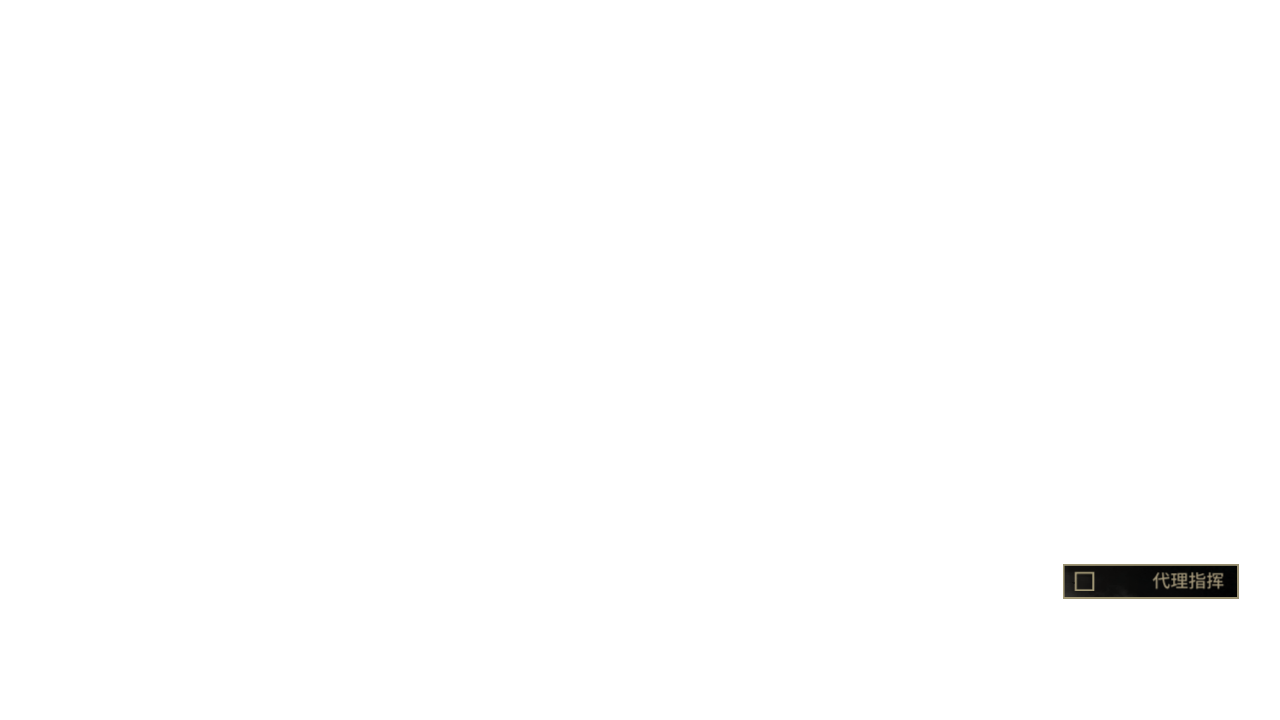
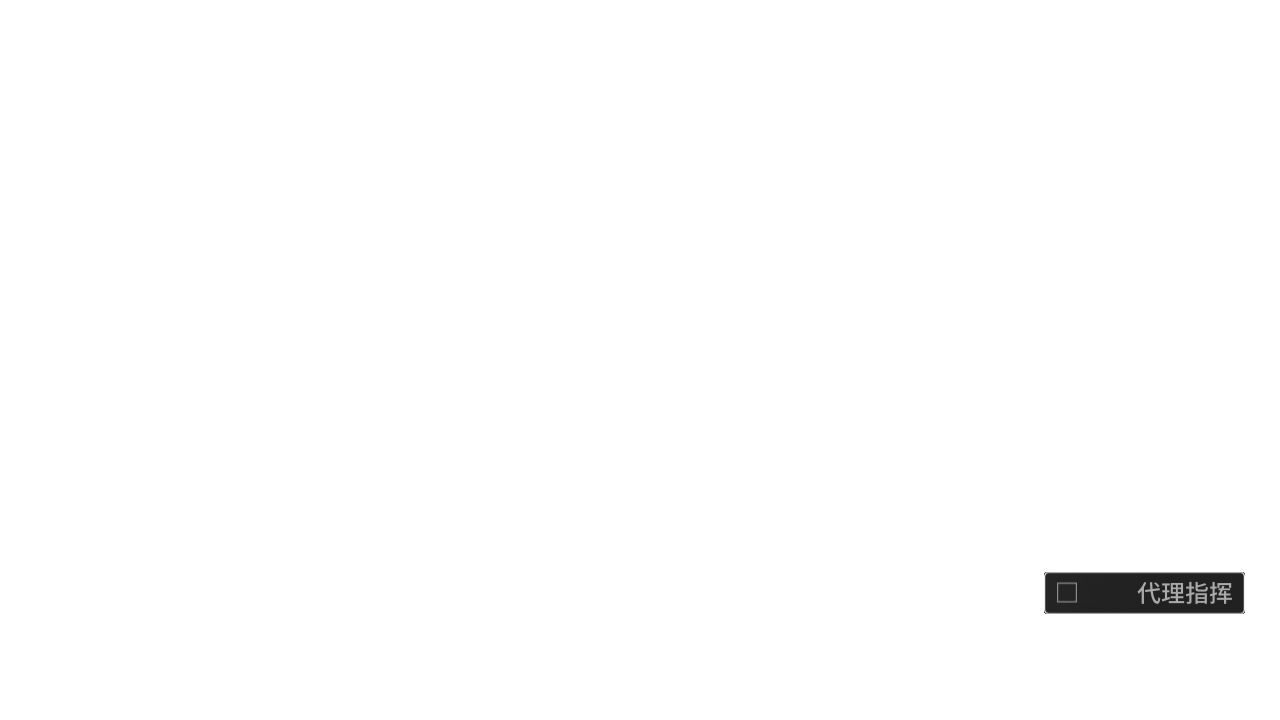
feat: 合并多个但功能相同的Tmpl

Changed region(s): [[0.8125, 0.7639, 1.0, 0.8556]]

diff --git a/src/main/kotlin/top/anagke/auto_ark/operate/ArkOperate.kt b/src/main/kotlin/top/anagke/auto_ark/operate/ArkOperate.kt
@@ -12,11 +12,7 @@ import top.anagke.auto_ark.operate.OperateOperations.剿灭作战
 import top.anagke.auto_ark.operate.OperateResult.EMPTY_SANITY
 import top.anagke.auto_ark.operate.OperateStrategy.*
 import top.anagke.auto_ark.operate.OperateTemplates.关卡信息界面_代理指挥关闭
-import top.anagke.auto_ark.operate.OperateTemplates.关卡信息界面_代理指挥关闭_0
-import top.anagke.auto_ark.operate.OperateTemplates.关卡信息界面_代理指挥关闭_1
 import top.anagke.auto_ark.operate.OperateTemplates.关卡信息界面_代理指挥开启
-import top.anagke.auto_ark.operate.OperateTemplates.关卡信息界面_代理指挥开启_0
-import top.anagke.auto_ark.operate.OperateTemplates.关卡信息界面_代理指挥开启_1
 import top.anagke.auto_ark.operate.OperateTemplates.剿灭_行动结束
 import top.anagke.auto_ark.operate.OperateTemplates.理智不足_可使用源石
 import top.anagke.auto_ark.operate.OperateTemplates.理智不足_可使用药剂
@@ -131,8 +127,6 @@ class ArkOperate(
                 Logger.info("进入关卡：$operation，完毕")
                 assert(
                     关卡信息界面_代理指挥开启, 关卡信息界面_代理指挥关闭,
-                    关卡信息界面_代理指挥开启_0, 关卡信息界面_代理指挥关闭_0,
-                    关卡信息界面_代理指挥开启_1, 关卡信息界面_代理指挥关闭_1
                 )
                 true
             }
@@ -147,10 +141,8 @@ class ArkOperate(
         Logger.info("代理指挥关卡：$operation，理智策略：${operateConfig.strategy}")
         assert(
             关卡信息界面_代理指挥开启, 关卡信息界面_代理指挥关闭,
-            关卡信息界面_代理指挥开启_0, 关卡信息界面_代理指挥关闭_0,
-            关卡信息界面_代理指挥开启_1, 关卡信息界面_代理指挥关闭_1
         )
-        if (matched(关卡信息界面_代理指挥关闭, 关卡信息界面_代理指挥关闭_0, 关卡信息界面_代理指挥关闭_1)) {
+        if (matched(关卡信息界面_代理指挥关闭)) {
             Logger.info("代理指挥关卡：$operation，代理指挥关闭，开启")
             tap(1067, 592) // 开启“代理指挥”
         }
@@ -167,7 +159,7 @@ class ArkOperate(
         if (matched(理智不足_可使用药剂) && strategy.canUsePotion() || matched(理智不足_可使用源石) && strategy.canUseOriginite()) {
             Logger.info("代理指挥关卡：$operation，理智不足，恢复")
             tap(1088, 577) // 恢复理智
-            await(关卡信息界面_代理指挥开启, 关卡信息界面_代理指挥开启_0, 关卡信息界面_代理指挥开启_1)
+            await(关卡信息界面_代理指挥开启)
             tap(1078, 661)
             await(编队界面)
         }
@@ -176,7 +168,7 @@ class ArkOperate(
         if (matched(理智不足_可使用药剂, 理智不足_可使用源石)) {
             Logger.info("代理指挥关卡：$operation，理智不足，退出")
             tap(783, 580)
-            await(关卡信息界面_代理指挥开启, 关卡信息界面_代理指挥开启_0, 关卡信息界面_代理指挥开启_1)
+            await(关卡信息界面_代理指挥开启)
             return EMPTY_SANITY
         }
 
@@ -188,7 +180,7 @@ class ArkOperate(
         }
         tap(640, 360).sleep()
         tap(640, 360).nap()
-        await(关卡信息界面_代理指挥开启, 关卡信息界面_代理指挥开启_0, 关卡信息界面_代理指挥开启_1)
+        await(关卡信息界面_代理指挥开启)
         Logger.info("代理指挥关卡：$operation，完毕")
         return OperateResult.SUCCESS
     }

diff --git a/src/main/kotlin/top/anagke/auto_ark/ArkUniversal.kt b/src/main/kotlin/top/anagke/auto_ark/ArkUniversal.kt
@@ -10,18 +10,43 @@ import kotlin.reflect.KProperty
 fun tmpl(diff: Double = 0.05) = TmplDelegate(diff)
 
 class TmplDelegate(private val diff: Double) {
+
     private var tmpl: Tmpl? = null
+
     operator fun getValue(thisRef: Any?, property: KProperty<*>): Tmpl {
         if (tmpl == null) {
-            val name = "${property.name}.png"
+            val name = property.name
             val kClass = thisRef?.let { it::class.java } ?: AutoArk::class.java
-            val tmplBytes = kClass
-                .getResource(name)!!
-                .readBytes()
-            tmpl = Tmpl(name, diff, Img.decode(tmplBytes)!!)
+            tmpl = findSingle(name, kClass) ?: findMultiple(name, kClass)
+                    ?: throw Exception("cannot find template with given name '$name'")
         }
         return tmpl!!
     }
+
+    private fun findSingle(name: String, kClass: Class<*>): Tmpl? {
+        return kClass
+            .getResource("${name}.png")
+            ?.readBytes()
+            ?.let { Tmpl(name, diff, listOf(Img.decode(it)!!)) }
+    }
+
+    private fun findMultiple(name: String, kClass: Class<*>): Tmpl? {
+        val imgs = mutableListOf<Img>()
+        var i = 0
+        while (true) {
+            val img = kClass
+                .getResource("${name}_${i++}.png")
+                ?.readBytes()
+                ?.let { Img.decode(it) }
+            if (img == null) {
+                break
+            } else {
+                imgs += img
+            }
+        }
+        return Tmpl("${name}.png", diff, imgs)
+    }
+
 }
 
 fun today(): DayOfWeek {

diff --git a/src/main/kotlin/top/anagke/auto_ark/operate/Operation.kt b/src/main/kotlin/top/anagke/auto_ark/operate/Operation.kt
@@ -5,11 +5,7 @@ import top.anagke.auto_android.device.notMatch
 import top.anagke.auto_android.util.minutes
 import top.anagke.auto_ark.jumpOut
 import top.anagke.auto_ark.operate.OperateTemplates.关卡信息界面_代理指挥关闭
-import top.anagke.auto_ark.operate.OperateTemplates.关卡信息界面_代理指挥关闭_0
-import top.anagke.auto_ark.operate.OperateTemplates.关卡信息界面_代理指挥关闭_1
 import top.anagke.auto_ark.operate.OperateTemplates.关卡信息界面_代理指挥开启
-import top.anagke.auto_ark.operate.OperateTemplates.关卡信息界面_代理指挥开启_0
-import top.anagke.auto_ark.operate.OperateTemplates.关卡信息界面_代理指挥开启_1
 import java.util.concurrent.CopyOnWriteArrayList
 
 class Operation(
@@ -42,12 +38,7 @@ enum class OperationType {
 
 fun Device.enter(operation: Operation): OperationState {
     with(operation) { enter() }
-    if (notMatch(
-            关卡信息界面_代理指挥开启, 关卡信息界面_代理指挥关闭,
-            关卡信息界面_代理指挥开启_0, 关卡信息界面_代理指挥关闭_0,
-            关卡信息界面_代理指挥开启_1, 关卡信息界面_代理指挥关闭_1
-        )
-    ) {
+    if (notMatch(关卡信息界面_代理指挥开启, 关卡信息界面_代理指挥关闭)) {
         jumpOut()
         return OperationState.NOT_OPEN
     }

diff --git a/src/main/kotlin/top/anagke/auto_ark/operate/Consts.kt b/src/main/kotlin/top/anagke/auto_ark/operate/Consts.kt
@@ -3,8 +3,8 @@
 package top.anagke.auto_ark.operate
 
 import top.anagke.auto_android.device.*
+import top.anagke.auto_android.img.Pos
 import top.anagke.auto_android.img.ocrWord
-import top.anagke.auto_android.util.Pos
 import top.anagke.auto_android.util.Rect
 import top.anagke.auto_android.util.Size
 import top.anagke.auto_android.util.minutes
@@ -52,11 +52,7 @@ object OperateTemplates {
     internal val 关卡信息界面_代理指挥开启 by tmpl(diff = 0.01)
 
     // 关卡准备页面，且代理指挥关闭
-    internal val 关卡信息界面_代理指挥关闭 by tmpl(diff = 0.02)
-    internal val 关卡信息界面_代理指挥开启_0 by tmpl(diff = 0.01)
-    internal val 关卡信息界面_代理指挥关闭_0 by tmpl(diff = 0.01)
-    internal val 关卡信息界面_代理指挥开启_1 by tmpl(diff = 0.01)
-    internal val 关卡信息界面_代理指挥关闭_1 by tmpl(diff = 0.01)
+    internal val 关卡信息界面_代理指挥关闭 by tmpl(diff = 0.01)
 
     // 等待“开始行动”
     internal val 编队界面 by tmpl(diff = 0.01)
@@ -86,7 +82,7 @@ object OperateOperations {
     @JvmStatic
     fun main(args: Array<String>) {
         App.defaultAutoArk().run {
-            device.enter(剿灭作战)
+            device.enter(MAIN_1_7)
         }
     }
 

diff --git a/src/main/kotlin/top/anagke/auto_ark/riic/RIIC.kt b/src/main/kotlin/top/anagke/auto_ark/riic/RIIC.kt
@@ -13,7 +13,7 @@ import top.anagke.auto_android.device.Device
 import top.anagke.auto_android.device.nap
 import top.anagke.auto_android.device.whileNotMatch
 import top.anagke.auto_android.img.OpenCV
-import top.anagke.auto_android.util.Pos
+import top.anagke.auto_android.img.Pos
 import top.anagke.auto_ark.riic.ArkRIIC.Companion.心情增序
 import top.anagke.auto_ark.riic.ArkRIIC.Companion.未进驻筛选
 import java.time.LocalTime

diff --git a/src/main/kotlin/top/anagke/auto_ark/riic/RIICConfig.kt b/src/main/kotlin/top/anagke/auto_ark/riic/RIICConfig.kt
@@ -3,7 +3,7 @@ package top.anagke.auto_ark.riic
 import com.charleskorn.kaml.Yaml
 import kotlinx.serialization.Serializable
 import kotlinx.serialization.encodeToString
-import top.anagke.auto_android.util.Pos
+import top.anagke.auto_android.img.Pos
 
 @Serializable
 data class RIICConfig(

diff --git a/src/main/kotlin/top/anagke/auto_ark/store/ArkStore.kt b/src/main/kotlin/top/anagke/auto_ark/store/ArkStore.kt
@@ -1,8 +1,8 @@
 package top.anagke.auto_ark.store
 
 import top.anagke.auto_android.device.*
+import top.anagke.auto_android.img.Pos
 import top.anagke.auto_android.img.Tmpl
-import top.anagke.auto_android.util.Pos
 import top.anagke.auto_ark.*
 
 class ArkStore(

diff --git a/src/main/kotlin/top/anagke/auto_ark/riic/ArkRIIC.kt b/src/main/kotlin/top/anagke/auto_ark/riic/ArkRIIC.kt
@@ -1,7 +1,7 @@
 package top.anagke.auto_ark.riic
 
 import top.anagke.auto_android.device.*
-import top.anagke.auto_android.util.Pos
+import top.anagke.auto_android.img.Pos
 import top.anagke.auto_ark.*
 
 class ArkRIIC(
